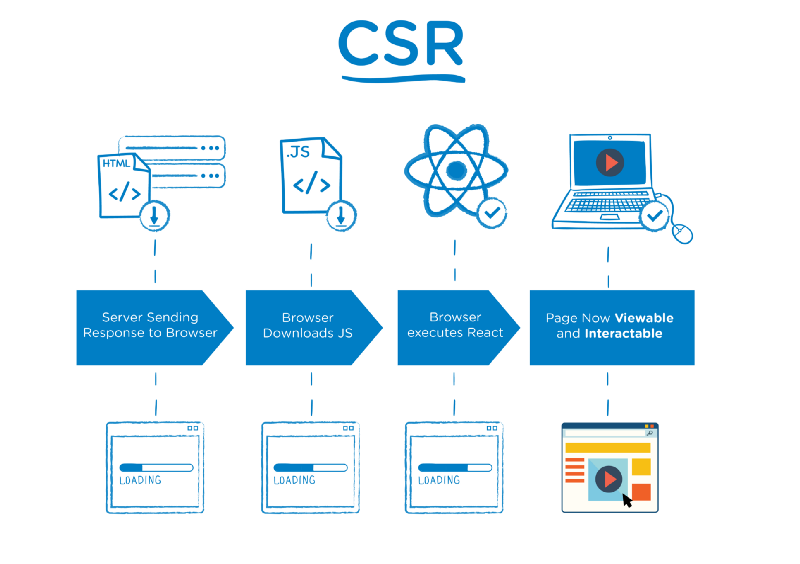
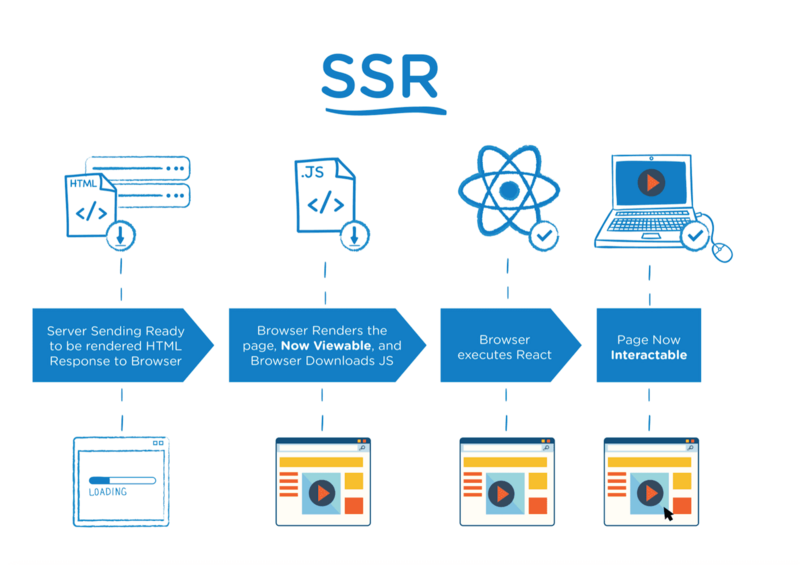
ssr vs csr

diff --git a/front-end/performance/SSRAndCSR.md b/front-end/performance/SSRAndCSR.md
@@ -1,7 +1,33 @@
-## 服务端渲染和客户端渲染
+## SSR(服务端渲染)
 
-在 SSR 中，服务端接收到请求后就在服务端将 HTML 页面生成好，然后将之返回给客户端，客户端拿到完整的 HTML 很快便能够将页面渲染出来，用户便能看到页面，与此同时，客户端也在拉取 JS 等其他资源，当 JS 拉取到本地并执行完后，页面就变得可交互了。
+用户请求服务器，服务器上直接生成 HTML 内容并返回给浏览器。也就是，服务端接收到请求后就在服务端将 HTML 页面生成好，然后将之返回给客户端，客户端拿到完整的 HTML 很快便能够将页面渲染出来，用户便能看到页面，与此同时，客户端也在拉取 JS 等其他资源，当 JS 拉取到本地并执行完后，页面就变得可交互了。
 
-而CSR 中，将HTML、JS等资源拉取到本地，由本地执行 JS，获取数据，然后渲染页面，渲染出的页面可以立即交互。对比上面两种渲染方式可以看出，服务端渲染以客户看到页面为第一要务，也就是很多公司考核的首屏加载时间，交互可以放在次要的位置。
+![ssr](../images/ssr.png)
 
-![ssr vs csr](../images/ssr.png)
+* CSR(客户端渲染)
+
+  客户端渲染，页面初始加载的 HTML 页面中无网页展示内容，需要加载执行JavaScript 文件中的 React 代码，通过 JavaScript 渲染生成页面；同时，JavaScript 代码会完成页面交互事件的绑定，并且在本地执行 JS，获取JSON数据，然后渲染页面，渲染出的页面可以立即交互。
+  
+  对比CSR和SSR两种渲染方式可以看出，服务端渲染以客户看到页面为第一要务，也就是很多公司考核的首屏加载时间，交互可以放在次要的位置，另外的好处就是更有利于SEO。
+
+  ![csr](../images/csr.png)
+
+* 直出
+
+  直出说白了其实就是“服务端渲染并输出”，是服务端渲染的一种实现方案。但存在维护难度高，排查问题困难的问题，所以才有同构的实现方案出现。
+
+* 同构
+
+  同构这个概念存在于 Vue，React，Angular 这些MVVC的前端框架中，同构实际上是客户端渲染和服务器端渲染的整合。把页面的展示内容和交互写在一起，让代码执行两次。在服务器端（node环境）执行一次，用于实现服务器端渲染，在客户端再执行一次，用于接管页面交互。
+
+  在 SSR 架构中，一般 Node 只是一个中间层，用来做 React 代码的服务器端渲染，而 Node 需要的数据通常由 API 服务器单独提供。这样做一是为了工程解耦，二也是为了规避 Node 服务器的一些计算性能问题。
+
+  - 局限性
+
+  react代码中不能存在直接操作DOM的代码，在node环境中会报错。
+
+  服务器端路由和客户端路由代码有很大区别，无法公用。在服务器端需要通过请求路径，找到路由组件，而在客户端需通过浏览器中的网址，找到路由组件，是完全不同的两套机制，所以这部分代码是肯定无法公用。
+
+  服务器端代码和客户端代码的打包也存在差异
+
+  ![node中间层](../images/node中间层.png)
